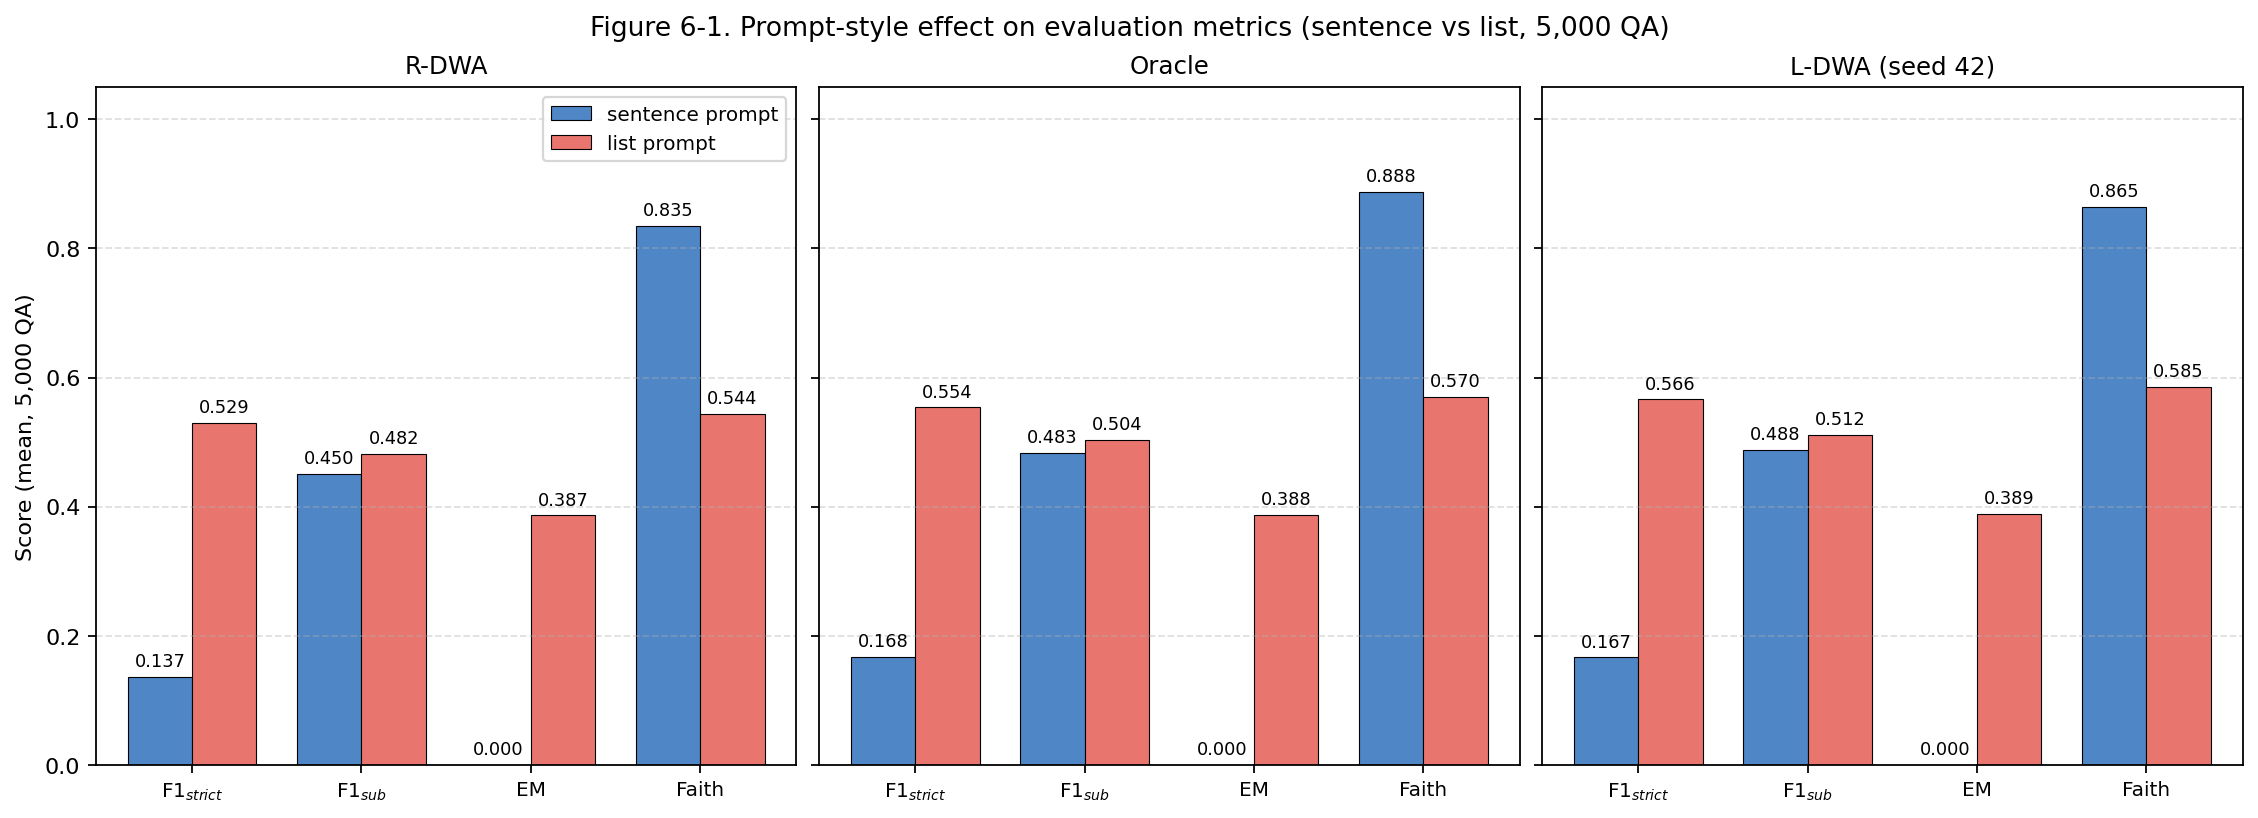
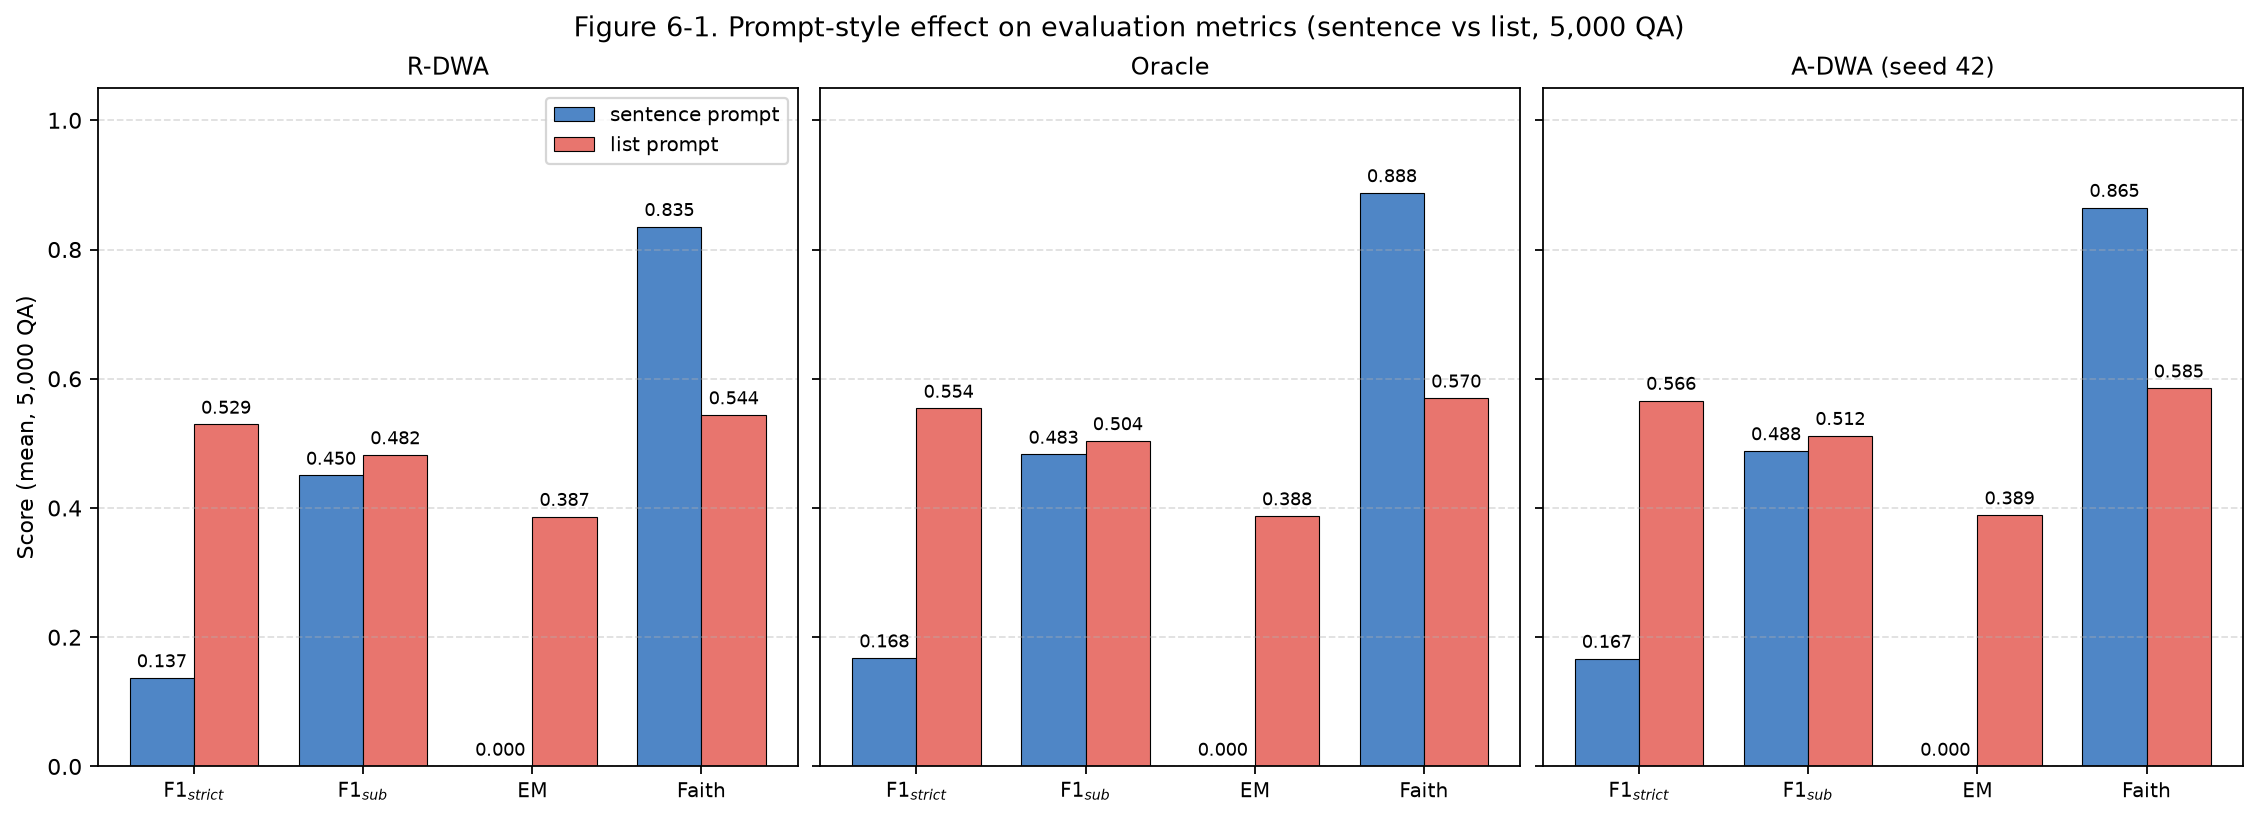
fix(figures): 논문 최종본 용어에 맞춰 L-DWA → A-DWA 표기 통일
학위논문 최종본이 A-DWA(Adaptive Dynamic Weighting Algorithm)로 용어를
확정했으나, plot 스크립트와 docs/figures 는 이전 명칭인 L-DWA 를 그대로
표시하고 있었다. 스크립트를 재실행하면 그림이 다시 L-DWA 로 되돌아가므로
표시 문자열을 통일한다.

- scripts/plot_figure*.py 7개: 범례·축 라벨·제목·주석의 L-DWA → A-DWA (13곳)
- docs/figures 4개: 논문에 수록된 최종 이미지로 갱신
  (fig4_1_rdwa_vs_oracle, fig6_1_prompt_delta, fig6_2_per_type,
   fig6_5_cross_domain_radar)

데이터 파일 경로(rerun_ldwa_seed42_*.json, ldwa_cache_ppo_*.pt)는
결과 파일명이므로 변경하지 않았다.

diff --git a/scripts/plot_figure6_2_per_type.py b/scripts/plot_figure6_2_per_type.py
@@ -1,5 +1,5 @@
 """
-Figure 6-2: Per-type F1_strict comparison (R-DWA / L-DWA / Oracle).
+Figure 6-2: Per-type F1_strict comparison (R-DWA / A-DWA / Oracle).
 
 Reads results/rerun_rdwa_list.json, rerun_ldwa_seed42_list.json,
 rerun_oracle_list.json, and produces a grouped bar chart grouping by
@@ -25,7 +25,7 @@ FIG_OUT = ROOT / "docs" / "figures" / "fig6_2_per_type.png"
 
 POLICIES = [
     ("R-DWA", "rerun_rdwa_list.json", "#4F86C6"),
-    ("L-DWA (seed 42)", "rerun_ldwa_seed42_list.json", "#E8756E"),
+    ("A-DWA (seed 42)", "rerun_ldwa_seed42_list.json", "#E8756E"),
     ("Oracle", "rerun_oracle_list.json", "#8FB573"),
 ]
 
@@ -65,7 +65,7 @@ def main() -> int:
     ax1.grid(axis="y", linestyle="--", alpha=0.4)
     ax1.legend(loc="upper right", fontsize=9)
 
-    # Right panel — L-DWA Δ over R-DWA (%)
+    # Right panel — A-DWA Δ over R-DWA (%)
     delta_pct = []
     for t in TYPES:
         rdwa = load_per_type(RESULTS / "rerun_rdwa_list.json")[t]["F1_strict"]["mean"]
@@ -78,7 +78,7 @@ def main() -> int:
         ax2.text(bar.get_x() + bar.get_width() / 2, v + 1.0,
                  f"{v:+.1f}%", ha="center", va="bottom",
                  fontsize=11, fontweight="bold")
-    ax2.set_ylabel("L-DWA Δ over R-DWA (%)", fontsize=10)
+    ax2.set_ylabel("A-DWA Δ over R-DWA (%)", fontsize=10)
     ax2.set_title("Relative improvement per type (F1$_{strict}$)", fontsize=11)
     ax2.axhline(0, color="black", linewidth=0.5)
     ax2.set_ylim(0, max(delta_pct) * 1.2 if delta_pct else 50)

diff --git a/scripts/plot_figure3_1_pipeline.py b/scripts/plot_figure3_1_pipeline.py
@@ -2,7 +2,7 @@
 Figure 3-1: Triple-Hybrid RAG pipeline diagram.
 
 Matplotlib box-and-arrow diagram of the 7-stage pipeline described in
-Ch.3 §1. Labels match the prose: QueryAnalyzer, DWA (R-DWA | L-DWA),
+Ch.3 §1. Labels match the prose: QueryAnalyzer, DWA (R-DWA | A-DWA),
 VectorStore + GraphStore + OntologyStore, merge_contexts, LLM.
 """
 
@@ -70,7 +70,7 @@ def main() -> int:
         facecolor="#FFE9A8", bold=True)
     arrow(ax, (6.2, 7.8), (6.9, 7.8))
     box(ax, (6.9, 5.9), 1.45, 0.8, "R-DWA\n(규칙 기반, Ch.Ⅳ)", facecolor="#F3F3F3", fontsize=9)
-    box(ax, (8.45, 5.9), 1.45, 0.8, "L-DWA\n(PPO 학습, Ch.Ⅴ)", facecolor="#FFD3CF", fontsize=9, bold=True)
+    box(ax, (8.45, 5.9), 1.45, 0.8, "A-DWA\n(PPO 학습, Ch.Ⅴ)", facecolor="#FFD3CF", fontsize=9, bold=True)
     arrow(ax, (8.4, 6.7), (8.4, 7.3), color="#999")
     arrow(ax, (7.6, 6.7), (7.6, 7.3), color="#999")
 
@@ -124,7 +124,7 @@ def main() -> int:
 
     ax.set_title(
         "Figure 3-1. Triple-Hybrid RAG pipeline (query → answer, 7 stages). "
-        "α, β, γ 은 DWA (R-DWA 또는 L-DWA) 가 질의마다 결정한다.",
+        "α, β, γ 은 DWA (R-DWA 또는 A-DWA) 가 질의마다 결정한다.",
         fontsize=11, pad=10,
     )
 

diff --git a/scripts/plot_figure4_1_rdwa_vs_oracle.py b/scripts/plot_figure4_1_rdwa_vs_oracle.py
@@ -60,7 +60,7 @@ def main() -> int:
     oracle_alpha, oracle_beta, oracle_gamma = 0.11, 0.16, 0.73
     # R-DWA actual mean selected (Ch.6 §5.3)
     rdwa_mean_alpha, rdwa_mean_beta, rdwa_mean_gamma = 0.25, 0.45, 0.30
-    # L-DWA mean (for reference, seed 42)
+    # A-DWA mean (for reference, seed 42)
     ldwa_alpha, ldwa_beta, ldwa_gamma = 0.25, 0.30, 0.45
 
     for label, a, b, g, color in rdwa_points:
@@ -87,11 +87,11 @@ def main() -> int:
                 xy=(x, y), xytext=(-90, 20), textcoords="offset points",
                 fontsize=10, color="#333")
 
-    # L-DWA mean for reference
+    # A-DWA mean for reference
     x, y = bary_to_xy(ldwa_alpha, ldwa_beta, ldwa_gamma)
     ax.scatter([x], [y], s=320, color="#5B9B5E", edgecolor="black", linewidths=1.5,
                marker="D", zorder=6)
-    ax.annotate(f"L-DWA 평균\n(0.25, 0.30, 0.45)",
+    ax.annotate(f"A-DWA 평균\n(0.25, 0.30, 0.45)",
                 xy=(x, y), xytext=(15, 15), textcoords="offset points",
                 fontsize=10, color="#3A6B3D", fontweight="bold")
 

diff --git a/scripts/plot_figure6_1_sentence_vs_list.py b/scripts/plot_figure6_1_sentence_vs_list.py
@@ -1,7 +1,7 @@
 """
 Generate Figure 6-1: Sentence vs List prompt delta bar chart.
 
-Reads the six rerun files (sentence+list × R-DWA/Oracle/L-DWA seed 42)
+Reads the six rerun files (sentence+list × R-DWA/Oracle/A-DWA seed 42)
 and produces docs/figures/fig6_1_prompt_delta.png. Matplotlib only —
 no seaborn dependency.
 
@@ -27,7 +27,7 @@ FIG_OUT = ROOT / "docs" / "figures" / "fig6_1_prompt_delta.png"
 POLICIES = [
     ("R-DWA", "rerun_rdwa_fixed.json", "rerun_rdwa_list.json"),
     ("Oracle", "rerun_oracle_fixed.json", "rerun_oracle_list.json"),
-    ("L-DWA (seed 42)", "rerun_ldwa_seed42_fixed.json", "rerun_ldwa_seed42_list.json"),
+    ("A-DWA (seed 42)", "rerun_ldwa_seed42_fixed.json", "rerun_ldwa_seed42_list.json"),
 ]
 
 # Drop F1_char — pre-existing sentence-run JSONs (from dff7dc1) predate the

diff --git a/scripts/plot_figure6_5_cross_domain_radar.py b/scripts/plot_figure6_5_cross_domain_radar.py
@@ -43,7 +43,7 @@ BENCHMARK_LABELS = {
 POLICIES = [
     ("Vector-only", "vector-only", "#4F86C6"),
     ("R-DWA", "rdwa", "#8FB573"),
-    ("L-DWA (univ-trained)", "ldwa_cache_ppo_checkpoints_seed_42_final.pt", "#E8756E"),
+    ("A-DWA (univ-trained)", "ldwa_cache_ppo_checkpoints_seed_42_final.pt", "#E8756E"),
 ]
 
 
@@ -144,7 +144,7 @@ def main() -> int:
     ax2.legend(loc="upper right", fontsize=9)
 
     fig.suptitle(
-        "Figure 6-5. Cross-domain generalization — univ-trained L-DWA on English benchmarks",
+        "Figure 6-5. Cross-domain generalization — univ-trained A-DWA on English benchmarks",
         fontsize=12,
     )
     FIG_OUT.parent.mkdir(parents=True, exist_ok=True)

diff --git a/scripts/plot_figure6_3_weight_distribution.py b/scripts/plot_figure6_3_weight_distribution.py
@@ -1,5 +1,5 @@
 """
-Figure 6-3: L-DWA vs R-DWA vs Oracle weight distribution over 5,000 QA.
+Figure 6-3: A-DWA vs R-DWA vs Oracle weight distribution over 5,000 QA.
 
 Reads `top_weights` from the aggregate section of each policy's rerun
 JSON and produces a scatter plot on the 2-simplex (barycentric) showing
@@ -33,7 +33,7 @@ plt.rcParams["axes.unicode_minus"] = False
 
 POLICIES = [
     ("R-DWA", "rerun_rdwa_list.json", "#4F86C6"),
-    ("L-DWA (seed 42)", "rerun_ldwa_seed42_list.json", "#E8756E"),
+    ("A-DWA (seed 42)", "rerun_ldwa_seed42_list.json", "#E8756E"),
     ("Oracle", "rerun_oracle_list.json", "#8FB573"),
 ]
 

diff --git a/scripts/plot_figure5_2_ppo_convergence.py b/scripts/plot_figure5_2_ppo_convergence.py
@@ -84,7 +84,7 @@ def main() -> int:
     ax2.legend(loc="upper right", fontsize=9)
 
     fig.suptitle(
-        "Figure 5-2. PPO L-DWA training curves — 3 seeds (42, 123, 999)",
+        "Figure 5-2. PPO A-DWA training curves — 3 seeds (42, 123, 999)",
         fontsize=12,
     )
     fig.savefig(FIG_OUT, dpi=160, bbox_inches="tight")
